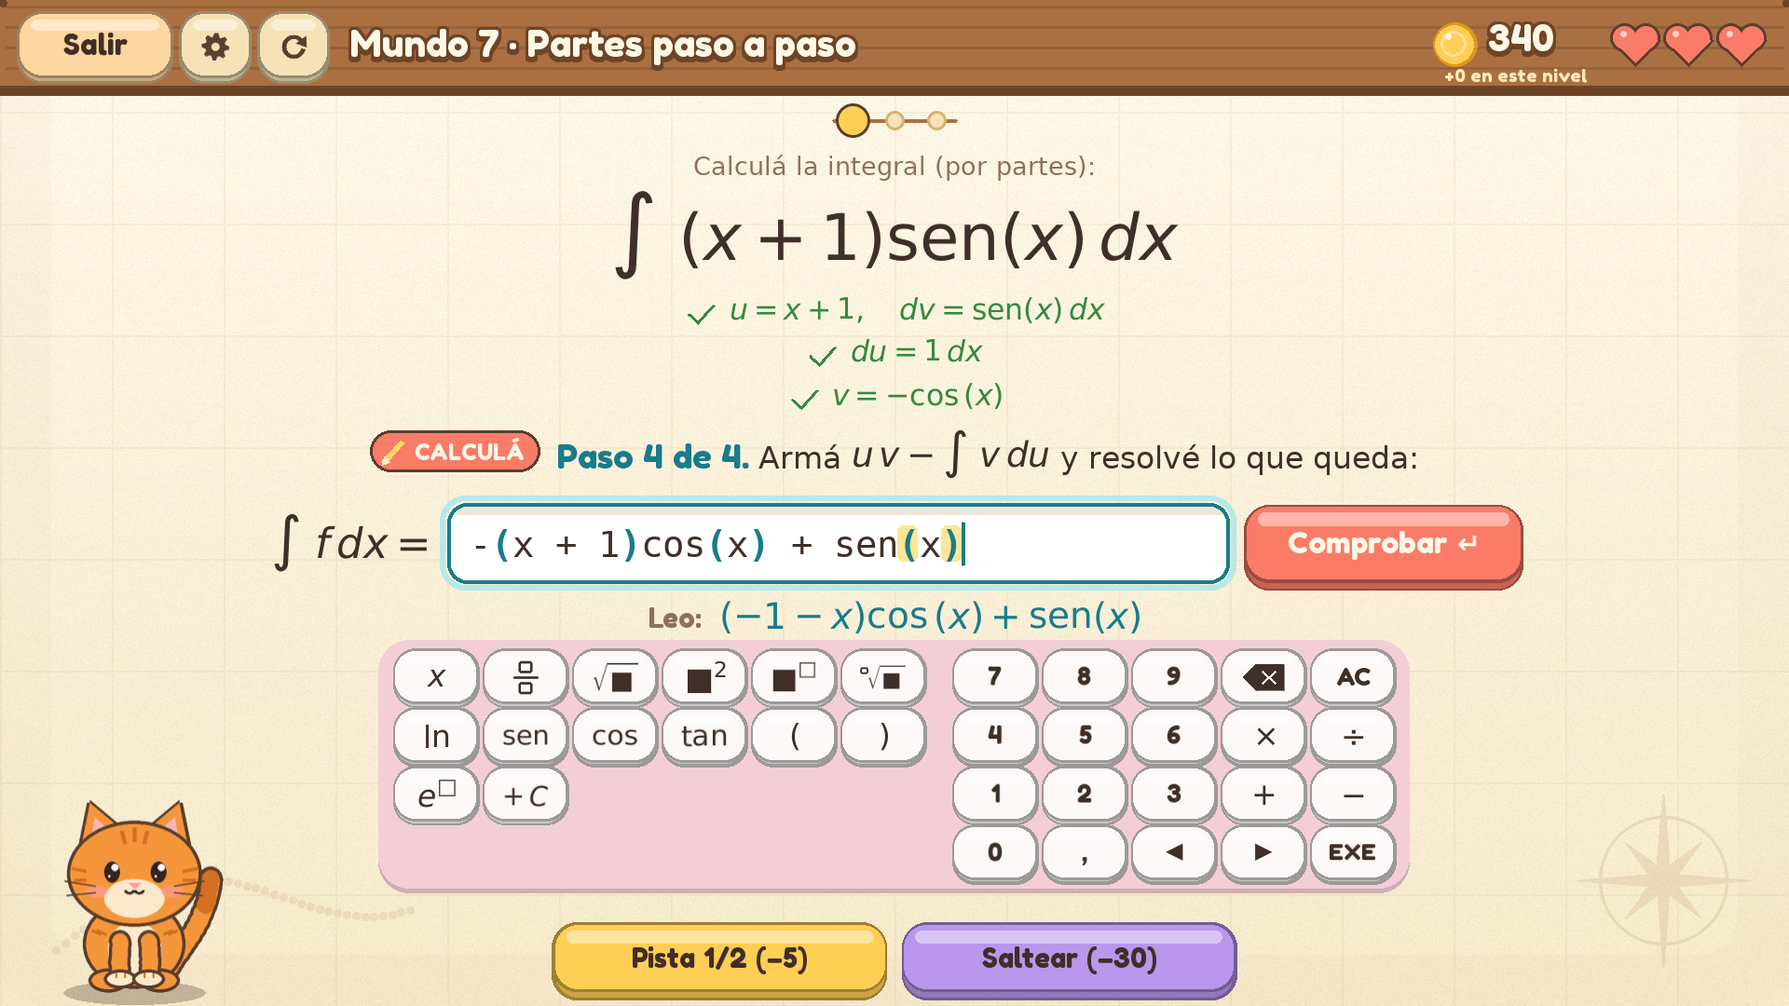
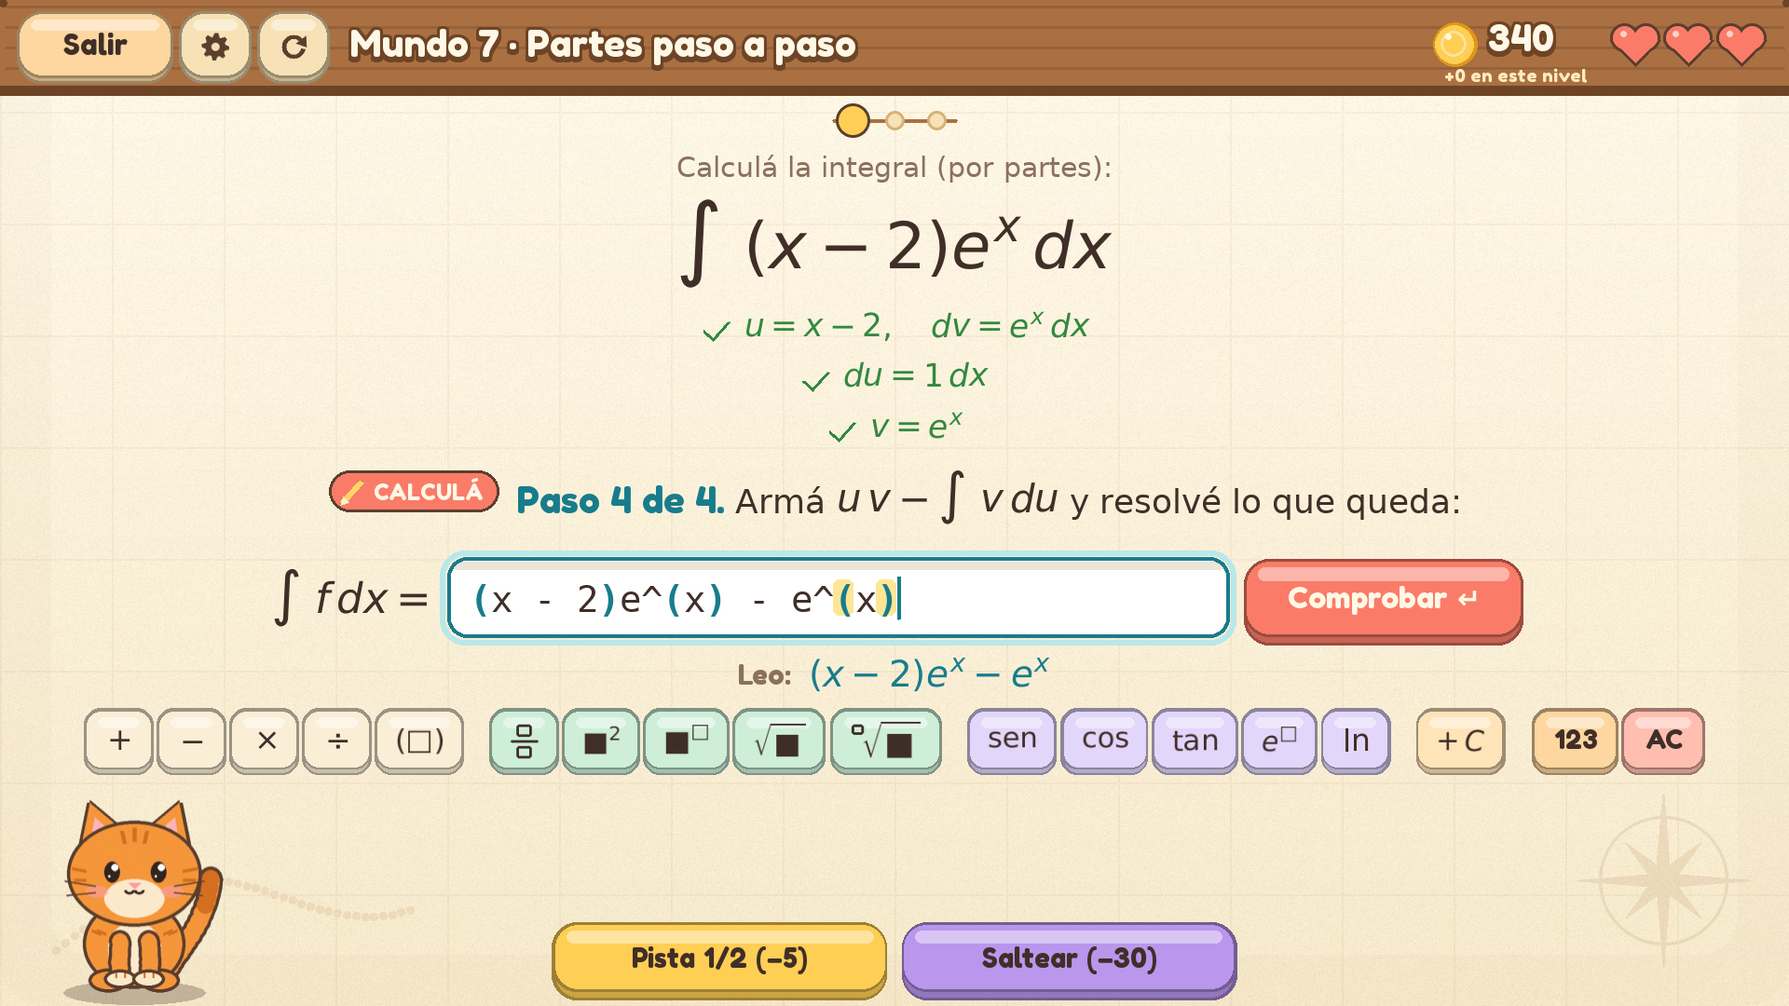
Teclado: el diseño de siempre, con etiquetas que explican cada tecla como la calculadora
Se vuelve al teclado del juego (grupos de colores pastel, una fila y la de números con 123) y de
la Casio fx-991LA CW se toma solo la forma de mostrar qué hace cada tecla: ■ lo ya escrito y □ lo
que falta (■², ■^□, √■, ⁿ√■, e^□), la tecla de fracción □/□, (□), × ÷, sen cos tan y el ⌫.
Vuelven el botón 123 y el ajuste teclado_numerico; se va la placa rosa, EXE y el bloque.

La distribución también rechaza teclas fuera de pantalla (si el teclado queda a la altura del
gato se corre a la derecha y puede no entrar: compacta para que suba). Superposición: 10.342
pantallas, con el teclado numérico abierto y cerrado.

Claude-Session: https://claude.ai/code/session_01AgBxcwVDKiy9WDAWDw1sef

Changed region(s): [[0.0312, 0.3056, 0.9688, 0.8861], [0.3438, 0.1528, 0.6562, 0.275]]

diff --git a/juego/escenas/nivel_pantalla.py b/juego/escenas/nivel_pantalla.py
@@ -92,22 +92,20 @@ def flecha_reiniciar(sup, centro, tam, color):
 # operaciones, potencias y raíces, funciones. Los extras (y, z, +C, π, e) van al final.
 @dataclass(frozen=True)
 class Tecla:
-    """Una tecla del teclado de fórmulas, copiado de la calculadora Casio fx-991LA CW.
-    etiqueta: lo que se ve (LaTeX sin $, o texto). Como en la calculadora, ■ es lo que ya escribiste
-    y □ el casillero que falta completar. texto: lo que escribe; retroceso: cuántos lugares vuelve el
-    cursor después (para quedar adentro del paréntesis). accion: en vez de escribir, mueve el cursor,
-    borra o comprueba ("izquierda", "derecha", "borrar", "limpiar", "comprobar")."""
+    """Una tecla del teclado de fórmulas. Las etiquetas siguen la idea de la calculadora (Casio
+    fx-991LA CW): ■ es lo que ya escribiste y □ el casillero que falta completar.
+    etiqueta: lo que se ve (LaTeX sin $, o texto). texto: lo que escribe; retroceso: cuántos lugares
+    vuelve el cursor después (para quedar adentro del paréntesis). accion: en vez de escribir, mueve
+    el cursor o borra ("izquierda", "derecha", "borrar"). icono: se dibuja a mano (ver _ICONOS)."""
     etiqueta: str
     texto: str = ""
     retroceso: int = 0
     accion: str = ""
-    formula: bool = True          # la etiqueta se dibuja como fórmula
-    icono: str = ""               # o se dibuja a mano: ver _ICONOS
-    grande: bool = False          # los números, con letra más grande (como en la calculadora)
+    icono: str = ""
 
 
 def _icono_fraccion(color):
-    """□ arriba, rayita, □ abajo (la tecla de fracción de la calculadora)."""
+    """□ arriba, rayita, □ abajo (como la tecla de fracción de la calculadora)."""
     s = Lienzo(24, 30)
     dibujo.rect(s, color, (6, 1, 12, 10), 2, border_radius=2)
     dibujo.line(s, color, (2, 15), (22, 15), 2)
@@ -125,7 +123,7 @@ def _icono_raiz_n(color):
 
 
 def _icono_borrar(color):
-    """La tecla de borrar de la calculadora: una flecha-etiqueta negra con una cruz blanca."""
+    """Borrar, como en la calculadora: una flecha-etiqueta con una cruz."""
     s = Lienzo(30, 20)
     dibujo.polygon(s, color, [(0, 10), (9, 1), (29, 1), (29, 19), (9, 19)])
     dibujo.line(s, (255, 255, 255), (14, 6), (23, 14), 2)
@@ -135,31 +133,21 @@ def _icono_borrar(color):
 
 _ICONOS = {"fraccion": _icono_fraccion, "raiz_n": _icono_raiz_n, "borrar": _icono_borrar}
 
-# bloque de funciones (como las dos filas de arriba de la calculadora; ln, e^□ y ⁿ√ no están a la
-# vista en la calculadora pero acá hacen falta, y van en el lugar de log y Ans)
-FILAS_FUNCIONES = [
-    [Tecla("x", "x"), Tecla("□/□", "()/()", 4, icono="fraccion"), Tecla(r"\sqrt{■}", "raiz()", 1),
-     Tecla("■^{2}", "^2"), Tecla("■^{□}", "^()", 1), Tecla("ⁿ√■", "raiz[]()", 3, icono="raiz_n")],
-    [Tecla(r"\ln", "ln()", 1), Tecla(r"\mathrm{sen}", "sen()", 1), Tecla(r"\cos", "cos()", 1),
-     Tecla(r"\tan", "tan()", 1), Tecla("(", "("), Tecla(")", ")")],
-    [Tecla("e^{□}", "e^()", 1)],      # + las variables y + C, o pi y e, según el paso
+# la fila de siempre, por grupos (cada grupo con su color)
+GRUPOS_TECLADO = [
+    ("operaciones", [Tecla("+", "+"), Tecla("-", "-"), Tecla(r"\times", "*"), Tecla(r"\div", "/"),
+                     Tecla("(□)", "()", 1)]),
+    ("potencias", [Tecla("□/□", "()/()", 4, icono="fraccion"), Tecla("■^{2}", "^2"), Tecla("■^{□}", "^()", 1),
+                   Tecla(r"\sqrt{■}", "raiz()", 1), Tecla("ⁿ√■", "raiz[]()", 3, icono="raiz_n")]),
+    ("funciones", [Tecla(r"\mathrm{sen}", "sen()", 1), Tecla(r"\cos", "cos()", 1), Tecla(r"\tan", "tan()", 1),
+                   Tecla("e^{□}", "e^()", 1), Tecla(r"\ln", "ln()", 1)]),
 ]
-# bloque numérico, igual que la calculadora (con ◀ ▶ en el lugar de ×10^■ y FORMAT)
-FILAS_NUMEROS = [
-    [Tecla("7", "7", formula=False, grande=True), Tecla("8", "8", formula=False, grande=True),
-     Tecla("9", "9", formula=False, grande=True), Tecla("DEL", accion="borrar", icono="borrar"),
-     Tecla("AC", accion="limpiar", formula=False)],
-    [Tecla("4", "4", formula=False, grande=True), Tecla("5", "5", formula=False, grande=True),
-     Tecla("6", "6", formula=False, grande=True), Tecla(r"\times", "*"), Tecla(r"\div", "/")],
-    [Tecla("1", "1", formula=False, grande=True), Tecla("2", "2", formula=False, grande=True),
-     Tecla("3", "3", formula=False, grande=True), Tecla("+", "+"), Tecla("-", "-")],
-    [Tecla("0", "0", formula=False, grande=True), Tecla(",", ",", formula=False, grande=True),
-     Tecla("◀", accion="izquierda", formula=False), Tecla("▶", accion="derecha", formula=False),
-     Tecla("EXE", accion="comprobar", formula=False)],
-]
-TECLA_FONDO, TECLA_LETRA = (253, 249, 248), TINTA          # teclas claras con letra oscura
-CALCULADORA = (244, 206, 214)                               # el rosa de la calculadora, de fondo
-TECLA_ANCHO, TECLA_HUECO = 58, 6       # (el alto depende de cuánto haya que compactar la pantalla)
+COLORES_TECLADO = {"operaciones": (250, 238, 214), "potencias": (206, 238, 216), "funciones": (226, 214, 250),
+                   "extras": (255, 228, 186)}
+# la fila de números (se abre con 123)
+NUMEROS = [Tecla(n, n) for n in "1234567890,"]
+EDICION = [Tecla("◀", accion="izquierda"), Tecla("▶", accion="derecha"),
+           Tecla("DEL", accion="borrar", icono="borrar")]
 
 
 PIE_GATO = (96, ALTO - 8)
@@ -172,56 +160,44 @@ X_GLOBO = 196
 
 # donde está sentado el gato (abajo a la izquierda): ahí no puede ir ningún botón
 ZONA_GATO = pygame.Rect(0, ALTO - 165, X_GLOBO - 10, 165)
+PANTALLA = pygame.Rect(0, 0, ANCHO, ALTO)
 
 
 class PantallaNivel:
     """La parte visual de Juego (se usa como clase madre, junto con Escena)."""
 
     def _teclado(self):
-        """Los dos bloques del teclado para este paso: funciones (con las variables y + C, o pi y e,
-        según haga falta) y números."""
-        funciones = [list(f) for f in FILAS_FUNCIONES]
-        extra = [Tecla(str(v), str(v)) for v in self.paso.variables if str(v) != "x"]
+        """Lista de (grupo, teclas) para la fila de siempre."""
+        grupos = [(n, list(g)) for n, g in GRUPOS_TECLADO]
+        extra = []
+        # las letras van en la fila de números si está abierta (ahí ya están x, y, z); si no, acá
+        if not self.app.progreso.teclado_numerico:
+            extra += [Tecla(str(v), str(v)) for v in self.paso.variables if str(v) != "x"]
         if self.paso.chequeo == "primitiva":
             extra.append(Tecla(r"+\,C", "+C"))
         if self.paso.chequeo == "numero":
-            extra += [Tecla(r"\pi", "pi"), Tecla("e", "e")]
-        funciones[-1] += extra
-        return funciones, FILAS_NUMEROS
+            extra = [Tecla(r"\pi", "pi"), Tecla("e", "e")]
+            grupos = [(n, g) for n, g in grupos if n != "funciones"]
+        if extra:
+            grupos.append(("extras", extra))
+        return grupos
 
-    def _boton_tecla(self, tecla, rect):
+    def _etiqueta(self, tecla, color=TINTA):
         if tecla.icono:
-            contenido = _ICONOS[tecla.icono](TECLA_LETRA)
-        elif tecla.formula:
-            contenido = ui.formula(tecla.etiqueta, 22, TECLA_LETRA).sup
-        else:
-            contenido = tecla.etiqueta
-        acciones = {"izquierda": self.campo.izquierda, "derecha": self.campo.derecha,
-                    "borrar": self.campo.borrar_atras, "limpiar": lambda: self.campo.poner(""),
-                    "comprobar": self.comprobar}
-        accion = acciones.get(tecla.accion) or (lambda t=tecla: self.campo.insertar(t.texto, t.retroceso))
-        return Boton(rect, contenido, accion, TECLA_FONDO, TECLA_LETRA, tam=22 if tecla.grande else 16,
-                     radio=14, relieve=3, sonido="tecla")
+            return _ICONOS[tecla.icono](color)
+        if len(tecla.etiqueta) == 1 and not tecla.etiqueta.isalpha() and tecla.etiqueta not in "+-":
+            return tecla.etiqueta          # números, coma y flechas: texto común
+        return ui.formula(tecla.etiqueta, 22, color).sup
 
-    def _armar_teclado(self, y, alto_tecla):
-        """El teclado como en la calculadora: bloque de funciones a la izquierda y números a la derecha,
-        sobre una placa del color de la calculadora. Devuelve dónde termina."""
-        funciones, numeros = self._teclado()
-        paso = TECLA_ANCHO + TECLA_HUECO
-        cols_f = max(len(f) for f in funciones)
-        cols_n = max(len(f) for f in numeros)
-        separacion = 22
-        ancho = (cols_f + cols_n) * paso - 2 * TECLA_HUECO + separacion
-        filas = max(len(funciones), len(numeros))
-        alto = filas * (alto_tecla + TECLA_HUECO) - TECLA_HUECO
-        x0 = self._x_fila(ancho + 24, y) + 12
-        self.placa_teclado = pygame.Rect(x0 - 12, y - 8, ancho + 24, alto + 16)
-        for bloque, x_bloque in ((funciones, x0), (numeros, x0 + cols_f * paso - TECLA_HUECO + separacion)):
-            for i, fila in enumerate(bloque):
-                for j, tecla in enumerate(fila):
-                    rect = (x_bloque + j * paso, y + i * (alto_tecla + TECLA_HUECO), TECLA_ANCHO, alto_tecla)
-                    self.botones.append(self._boton_tecla(tecla, rect))
-        return y + alto + 8
+    def _boton_tecla(self, tecla, rect, color):
+        acciones = {"izquierda": self.campo.izquierda, "derecha": self.campo.derecha,
+                    "borrar": self.campo.borrar_atras}
+        accion = acciones.get(tecla.accion) or (lambda t=tecla: self.campo.insertar(t.texto, t.retroceso))
+        return Boton(rect, self._etiqueta(tecla), accion, color, tam=19, radio=10, relieve=4, sonido="tecla")
+
+    def _ancho_tecla(self, tecla):
+        et = self._etiqueta(tecla)
+        return 46 if isinstance(et, str) else max(46, et.get_width() + 22)
 
     def _boton_saltear(self, rect):
         """Saltear el ejercicio: una vez por nivel, cuesta monedas (en los jefes no se puede)."""
@@ -252,18 +228,12 @@ class PantallaNivel:
     # los botones de Pista y Saltear. El ejercicio va arriba de esa franja y NUNCA se pisa con ella:
     # si no entra, se va compactando de a poco (menos aire, fórmulas más chicas, pasos en una línea).
     COMPACTOS = (
-        # aire, alto fórmula, alto gráfico, tam pregunta, tam pasos, pasos en línea, alto opciones, alto "Leo",
-        # tam globo, alto de las teclas
-        dict(aire=1.0, formula=None, grafico=None, pregunta=24, pasos=20, en_linea=False, opcion=84, leo=44, globo=19,
-             tecla=36),
-        dict(aire=0.7, formula=96, grafico=300, pregunta=22, pasos=18, en_linea=False, opcion=72, leo=34, globo=19,
-             tecla=36),
-        dict(aire=0.5, formula=76, grafico=260, pregunta=21, pasos=17, en_linea=True, opcion=62, leo=30, globo=18,
-             tecla=34),
-        dict(aire=0.4, formula=62, grafico=220, pregunta=20, pasos=16, en_linea=True, opcion=54, leo=28, globo=17,
-             tecla=32),
-        dict(aire=0.3, formula=50, grafico=180, pregunta=19, pasos=15, en_linea=True, opcion=48, leo=26, globo=16,
-             tecla=30),
+        # aire, alto fórmula, alto gráfico, tam pregunta, tam pasos, pasos en línea, alto opciones, alto "Leo", tam globo
+        dict(aire=1.0, formula=None, grafico=None, pregunta=24, pasos=20, en_linea=False, opcion=84, leo=44, globo=19),
+        dict(aire=0.7, formula=96, grafico=300, pregunta=22, pasos=18, en_linea=False, opcion=72, leo=34, globo=19),
+        dict(aire=0.5, formula=76, grafico=260, pregunta=21, pasos=17, en_linea=True, opcion=62, leo=30, globo=18),
+        dict(aire=0.4, formula=62, grafico=220, pregunta=20, pasos=16, en_linea=True, opcion=54, leo=28, globo=17),
+        dict(aire=0.3, formula=50, grafico=180, pregunta=19, pasos=15, en_linea=True, opcion=48, leo=26, globo=16),
     )
 
     MARGEN = 12          # entre la franja del gato y el borde de abajo
@@ -284,7 +254,6 @@ class PantallaNivel:
                         self.boton_opciones((130, 10, 48, 44)),
                         Boton((186, 10, 48, 44), icono, self.reiniciar, ARENA, relieve=4)]
         self.capas = []
-        self.placa_teclado = None
         respondiendo = self.estado == "pregunta"
 
         # 1) la franja del gato, de abajo para arriba: así se sabe cuánto lugar le queda al ejercicio
@@ -346,7 +315,10 @@ class PantallaNivel:
         fondo = max([y] + [r.bottom for r in contenido])
         # ningún botón puede tapar el ejercicio (por ejemplo, el teclado al gráfico de la región) ni al gato
         tapa = any(b.rect.colliderect(r) for b in self.botones[3:] for r in contenido + [ZONA_GATO])
-        return fondo <= limite and not tapa
+        # ...y todo tiene que entrar en la pantalla (si el teclado queda a la altura del gato, se corre a
+        # la derecha y puede no entrar: entonces hay que compactar para que suba)
+        afuera = any(not PANTALLA.contains(b.rect) for b in self.botones)
+        return fondo <= limite and not tapa and not afuera
 
     def _rect_lado(self, y):
         """Lugar de los botones Pista y Saltear cuando el gato no está hablando: abajo, al lado del gato."""
@@ -410,7 +382,39 @@ class PantallaNivel:
         y += c["leo"]
         if not respondiendo:
             return y
-        return self._armar_teclado(y + 8, c["tecla"])
+        grupos = self._teclado()
+        hueco = 16   # espacio entre grupos
+        teclas = [(nombre, t, self._ancho_tecla(t)) for nombre, lista in grupos for t in lista]
+        total = sum(w for _, _, w in teclas) + 6 * len(teclas) + hueco * len(grupos) + 58 + 6 + 56
+        x = self._x_fila(total, y)
+        anterior = None
+        for nombre, tecla, w in teclas:
+            if anterior is not None and nombre != anterior:
+                x += hueco
+            anterior = nombre
+            self.botones.append(self._boton_tecla(tecla, (x, y, w, 40), COLORES_TECLADO[nombre]))
+            x += w + 6
+        x += hueco
+        abierto = self.app.progreso.teclado_numerico
+        self.botones.append(Boton((x, y, 58, 40), "123", self.alternar_numeros,
+                                  SOL if abierto else DURAZNO, tam=17, radio=10, relieve=4, sonido="tecla"))
+        self.botones.append(Boton((x + 64, y, 56, 40), "AC", lambda: self.campo.poner(""), ui.ROSA, tam=17,
+                                  radio=10, relieve=4, sonido="tecla"))
+        y += 48
+        if abierto:
+            variables = [Tecla(str(v), str(v)) for v in self.paso.variables]
+            fila = [*NUMEROS, None, *variables, None, *EDICION]
+            anchos = [0 if t is None else self._ancho_tecla(t) for t in fila]
+            total = sum(anchos) + 6 * (len(fila) - 2) - 6 + 2 * hueco
+            x = self._x_fila(total, y)
+            for tecla, w in zip(fila, anchos, strict=True):
+                if tecla is None:      # separación entre números, letras y edición
+                    x += hueco
+                    continue
+                self.botones.append(self._boton_tecla(tecla, (x, y, w, 40), TARJETA))
+                x += w + 6
+            y += 48
+        return y
 
     def _x_fila(self, total, y):
         """Dónde empieza una fila del teclado: centrada en el ejercicio, sin salirse de la pantalla y,
@@ -596,10 +600,6 @@ class PantallaNivel:
                     sup.blit(fm, (x + et.get_width() + 12, cy - fm.get_height() // 2))
                 else:
                     centrar(sup, ui.texto(self.preview[1], 18, SUAVE), self.y_preview + 6, self.cx)
-        if self.placa_teclado:            # el cuerpo de la calculadora, detrás de las teclas
-            placa = self.placa_teclado.move(dx, 0)
-            dibujo.rect(sup, ui.oscurecer(CALCULADORA, 0.85), placa.move(0, 3), border_radius=22)
-            dibujo.rect(sup, CALCULADORA, placa, border_radius=22)
         for b in self.botones:
             b.dibujar(sup, dx if b.rect.top > 90 else 0)
         # el gato y su globito

diff --git a/tests/test_superposicion.py b/tests/test_superposicion.py
@@ -2,7 +2,7 @@
 
 Arma TODOS los pasos de ejercicios de todos los niveles en las situaciones que agrandan el globito
 del gato (te equivocaste, pediste pistas, se reveló la respuesta, acertaste con explicación),
-y se fija que:
+con el teclado numérico abierto y cerrado, y se fija que:
 
 - el globito no tape el ejercicio (consigna, fórmula, pasos, pregunta, campo de texto),
 - ningún botón tape el ejercicio (ni el gráfico de la región),
@@ -139,12 +139,14 @@ def main():
                         j.paso_i = paso_i
                         j.empezar_paso()
                         j.charla = None
-                        j.armar()
-                        for situacion in _situaciones(j):
-                            total += 1
-                            for p in _problemas(j):
-                                clave = (m.nombre, nivel.nombre, situacion, p.split(" <")[0])
-                                fallas.setdefault(clave, (p, j.ej.formula, j.paso.pregunta))
+                        for teclado in (False, True):
+                            app.progreso.teclado_numerico = teclado
+                            j.armar()
+                            for situacion in _situaciones(j):
+                                total += 1
+                                for p in _problemas(j):
+                                    clave = (m.nombre, nivel.nombre, situacion, p.split(" <")[0])
+                                    fallas.setdefault(clave, (p, j.ej.formula, j.paso.pregunta))
     if fallas:
         print(f"{len(fallas)} problemas (en {total} pantallas):")
         for (mundo, nivel, sit, _), (p, formula, pregunta) in sorted(fallas.items()):

diff --git a/tests/test_teclado.py b/tests/test_teclado.py
@@ -1,4 +1,4 @@
-"""El teclado de fórmulas (copiado de la Casio fx-991LA CW) escribe cosas que el juego entiende.
+"""El teclado de fórmulas escribe cosas que el juego entiende.
 
 - Cada tecla de función deja el cursor en su casillero y, al completarla, la fórmula se entiende.
 - En una fracción (tecla □/□), → pasa del numerador al denominador y ← vuelve, como en la calculadora.
@@ -16,7 +16,7 @@ import pygame  # noqa: E402
 pygame.init()
 pygame.display.set_mode((64, 64))
 
-from juego.escenas.nivel_pantalla import FILAS_FUNCIONES, FILAS_NUMEROS  # noqa: E402
+from juego.escenas.nivel_pantalla import GRUPOS_TECLADO  # noqa: E402
 from juego.mate import parsear, x  # noqa: E402
 from juego.ui import CampoTexto  # noqa: E402
 
@@ -26,8 +26,7 @@ def campo():
 
 
 def test_cada_tecla_de_funcion_se_entiende():
-    teclas = [t for fila in FILAS_FUNCIONES + FILAS_NUMEROS for t in fila if t.texto and not t.texto.isdigit()
-              and t.texto not in (",", "x")]
+    teclas = [t for _, grupo in GRUPOS_TECLADO for t in grupo]
     assert len(teclas) >= 14, teclas
     for tecla in teclas:
         c = campo()
@@ -39,12 +38,7 @@ def test_cada_tecla_de_funcion_se_entiende():
         if tecla.texto == "()/()":             # fracción: numerador, → y denominador
             c.insertar("1")
             c.derecha()
-        if tecla.texto != ")":
-            c.insertar("x")
-        if tecla.texto == "(":
-            c.insertar(")")
-        if tecla.texto == ")":
-            c.poner("(2x)")
+        c.insertar("x")
         parsear(c.texto, (x,))                 # no tiene que tirar ErrorEntrada
 
 

diff --git a/juego/escenas/nivel.py b/juego/escenas/nivel.py
@@ -180,6 +180,11 @@ class Juego(PantallaNivel, Escena):
         return ""
 
 
+    def alternar_numeros(self):
+        self.app.progreso.teclado_numerico = not self.app.progreso.teclado_numerico
+        self.app.progreso.guardar()
+        self.armar()
+
     def reiniciar(self):
         """Empezar el nivel de nuevo (por ejemplo, para hacerlo perfecto)."""
         if self.practica:

diff --git a/juego/progreso.py b/juego/progreso.py
@@ -50,8 +50,9 @@ _CAMPOS = {
     "vol_efectos": 0.6,
     "vol_musica": 0.5,
     "pantalla_completa": False,
+    "teclado_numerico": False,
 }
-_AJUSTES = {"sonido", "musica", "vol_efectos", "vol_musica", "pantalla_completa"}
+_AJUSTES = {"sonido", "musica", "vol_efectos", "vol_musica", "pantalla_completa", "teclado_numerico"}
 
 
 def _por_defecto(campo):

diff --git a/LEEME.md b/LEEME.md
@@ -30,12 +30,11 @@ Un juego para aprender a derivar e integrar, de a un paso por vez: desde la regl
 - **Integrales dobles**: te muestra el dibujo de la región.
 - **Cada mundo es una isla distinta**: de la Isla Serena a la Isla Calavera, cada vez un poco más misteriosas.
 - **Tu michi tiene nombre**: se lo ponés la primera vez (y lo cambiás tocando su cartelito en el menú).
-- **Teclado de fórmulas** copiado de la calculadora Casio fx-991LA CW: teclas claras sobre una placa rosa,
-  con el bloque de funciones a la izquierda (x, □/□, √■, ■², ■^□, ⁿ√■, ln, sen, cos, tan, paréntesis, e^□
-  y las variables o + C) y el de números a la derecha (7 8 9 ⌫ AC / 4 5 6 × ÷ / 1 2 3 + − / 0 , ◀ ▶ EXE).
-  Como en la calculadora, ■ es lo que ya escribiste y □ lo que falta completar; en una fracción, ▶ pasa del
-  numerador al denominador, y EXE comprueba. Anda con pantalla táctil. La ayuda para escribir fórmulas
-  está abajo a la derecha del menú. Los paréntesis se colorean por pareja. El punto
+- **Teclado de fórmulas** con las teclas por grupos de colores (operaciones, potencias y raíces, funciones)
+  y un teclado numérico que se despliega con **123** (para usarlo con pantalla táctil). Las etiquetas
+  siguen la idea de la calculadora: ■ es lo que ya escribiste y □ lo que falta completar (■², ■^□, √■,
+  ⁿ√■, e^□, la fracción □/□), con × ÷, sen cos tan y el ⌫ para borrar. En una fracción, ▶ pasa del
+  numerador al denominador. La ayuda para escribir fórmulas está abajo a la derecha del menú. Los paréntesis se colorean por pareja. El punto
   también multiplica (`2.x`); los decimales van con coma (`0,5`).
 - **Detective de errores**: a veces te muestran la resolución de otra persona y tenés que encontrar el error.
 - **PENSÁ / CALCULÁ**: cada consigna dice si es de razonar o de hacer la cuenta (y cambia la música).
